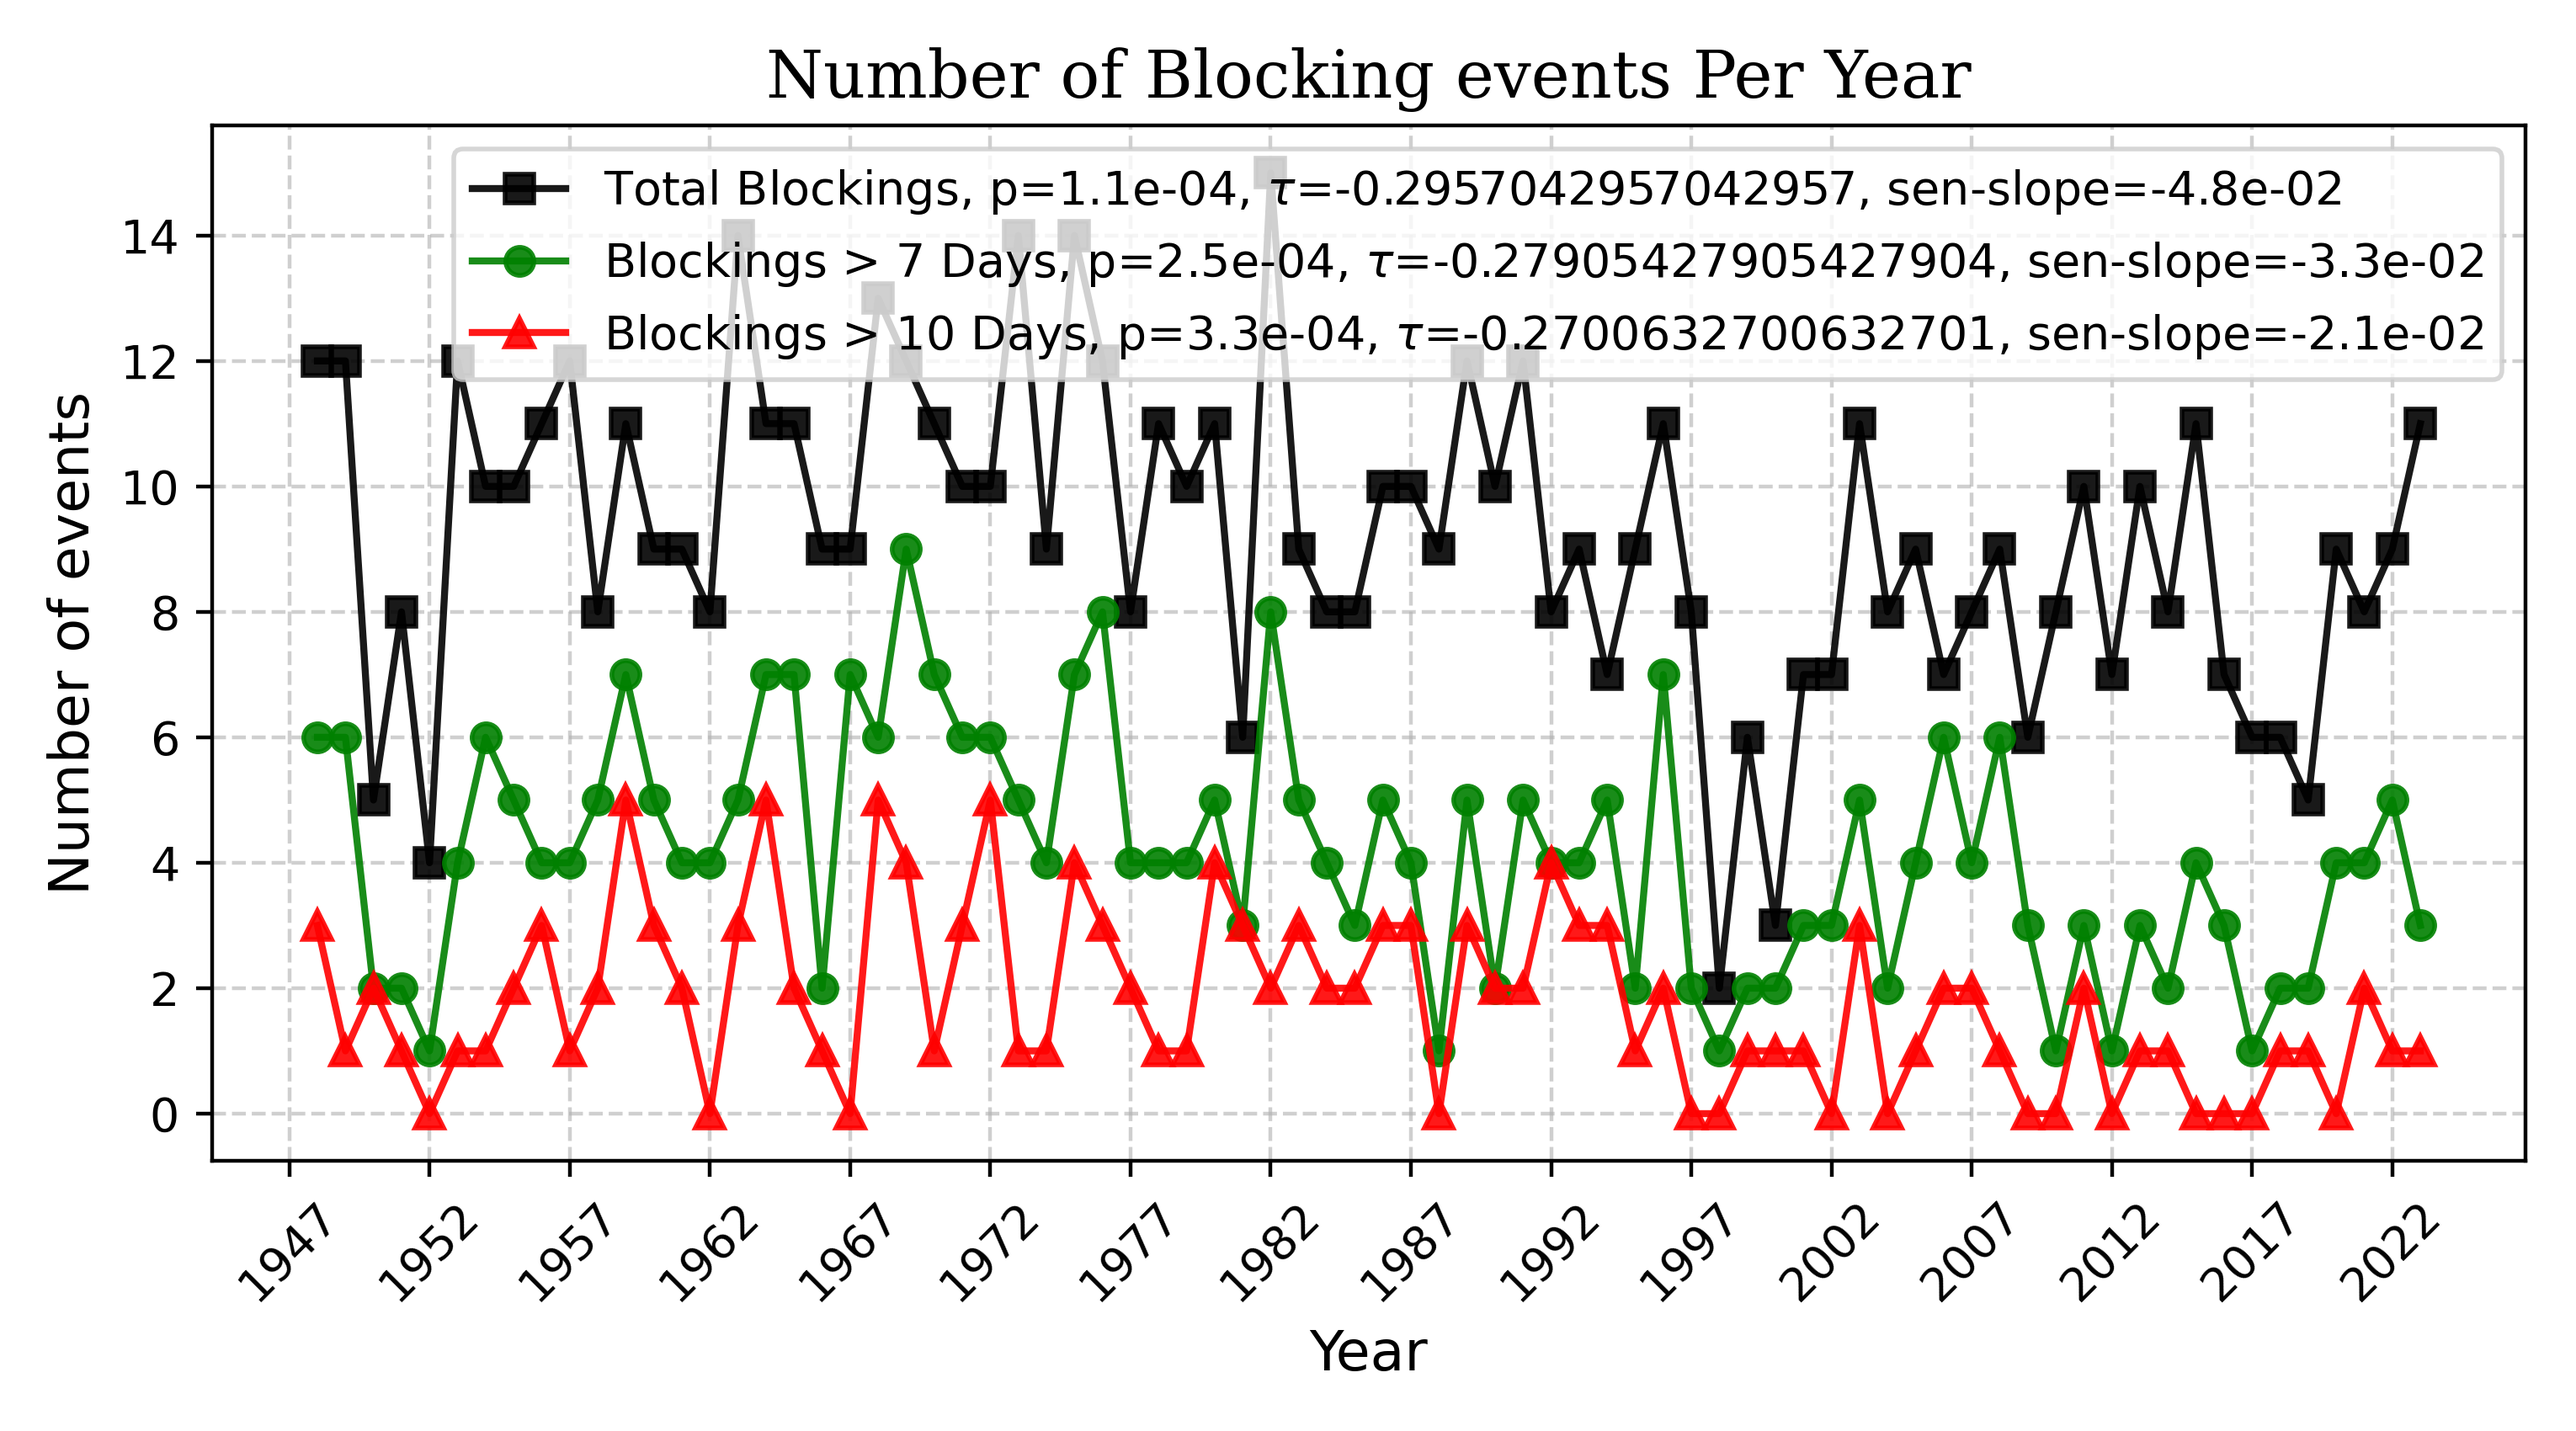
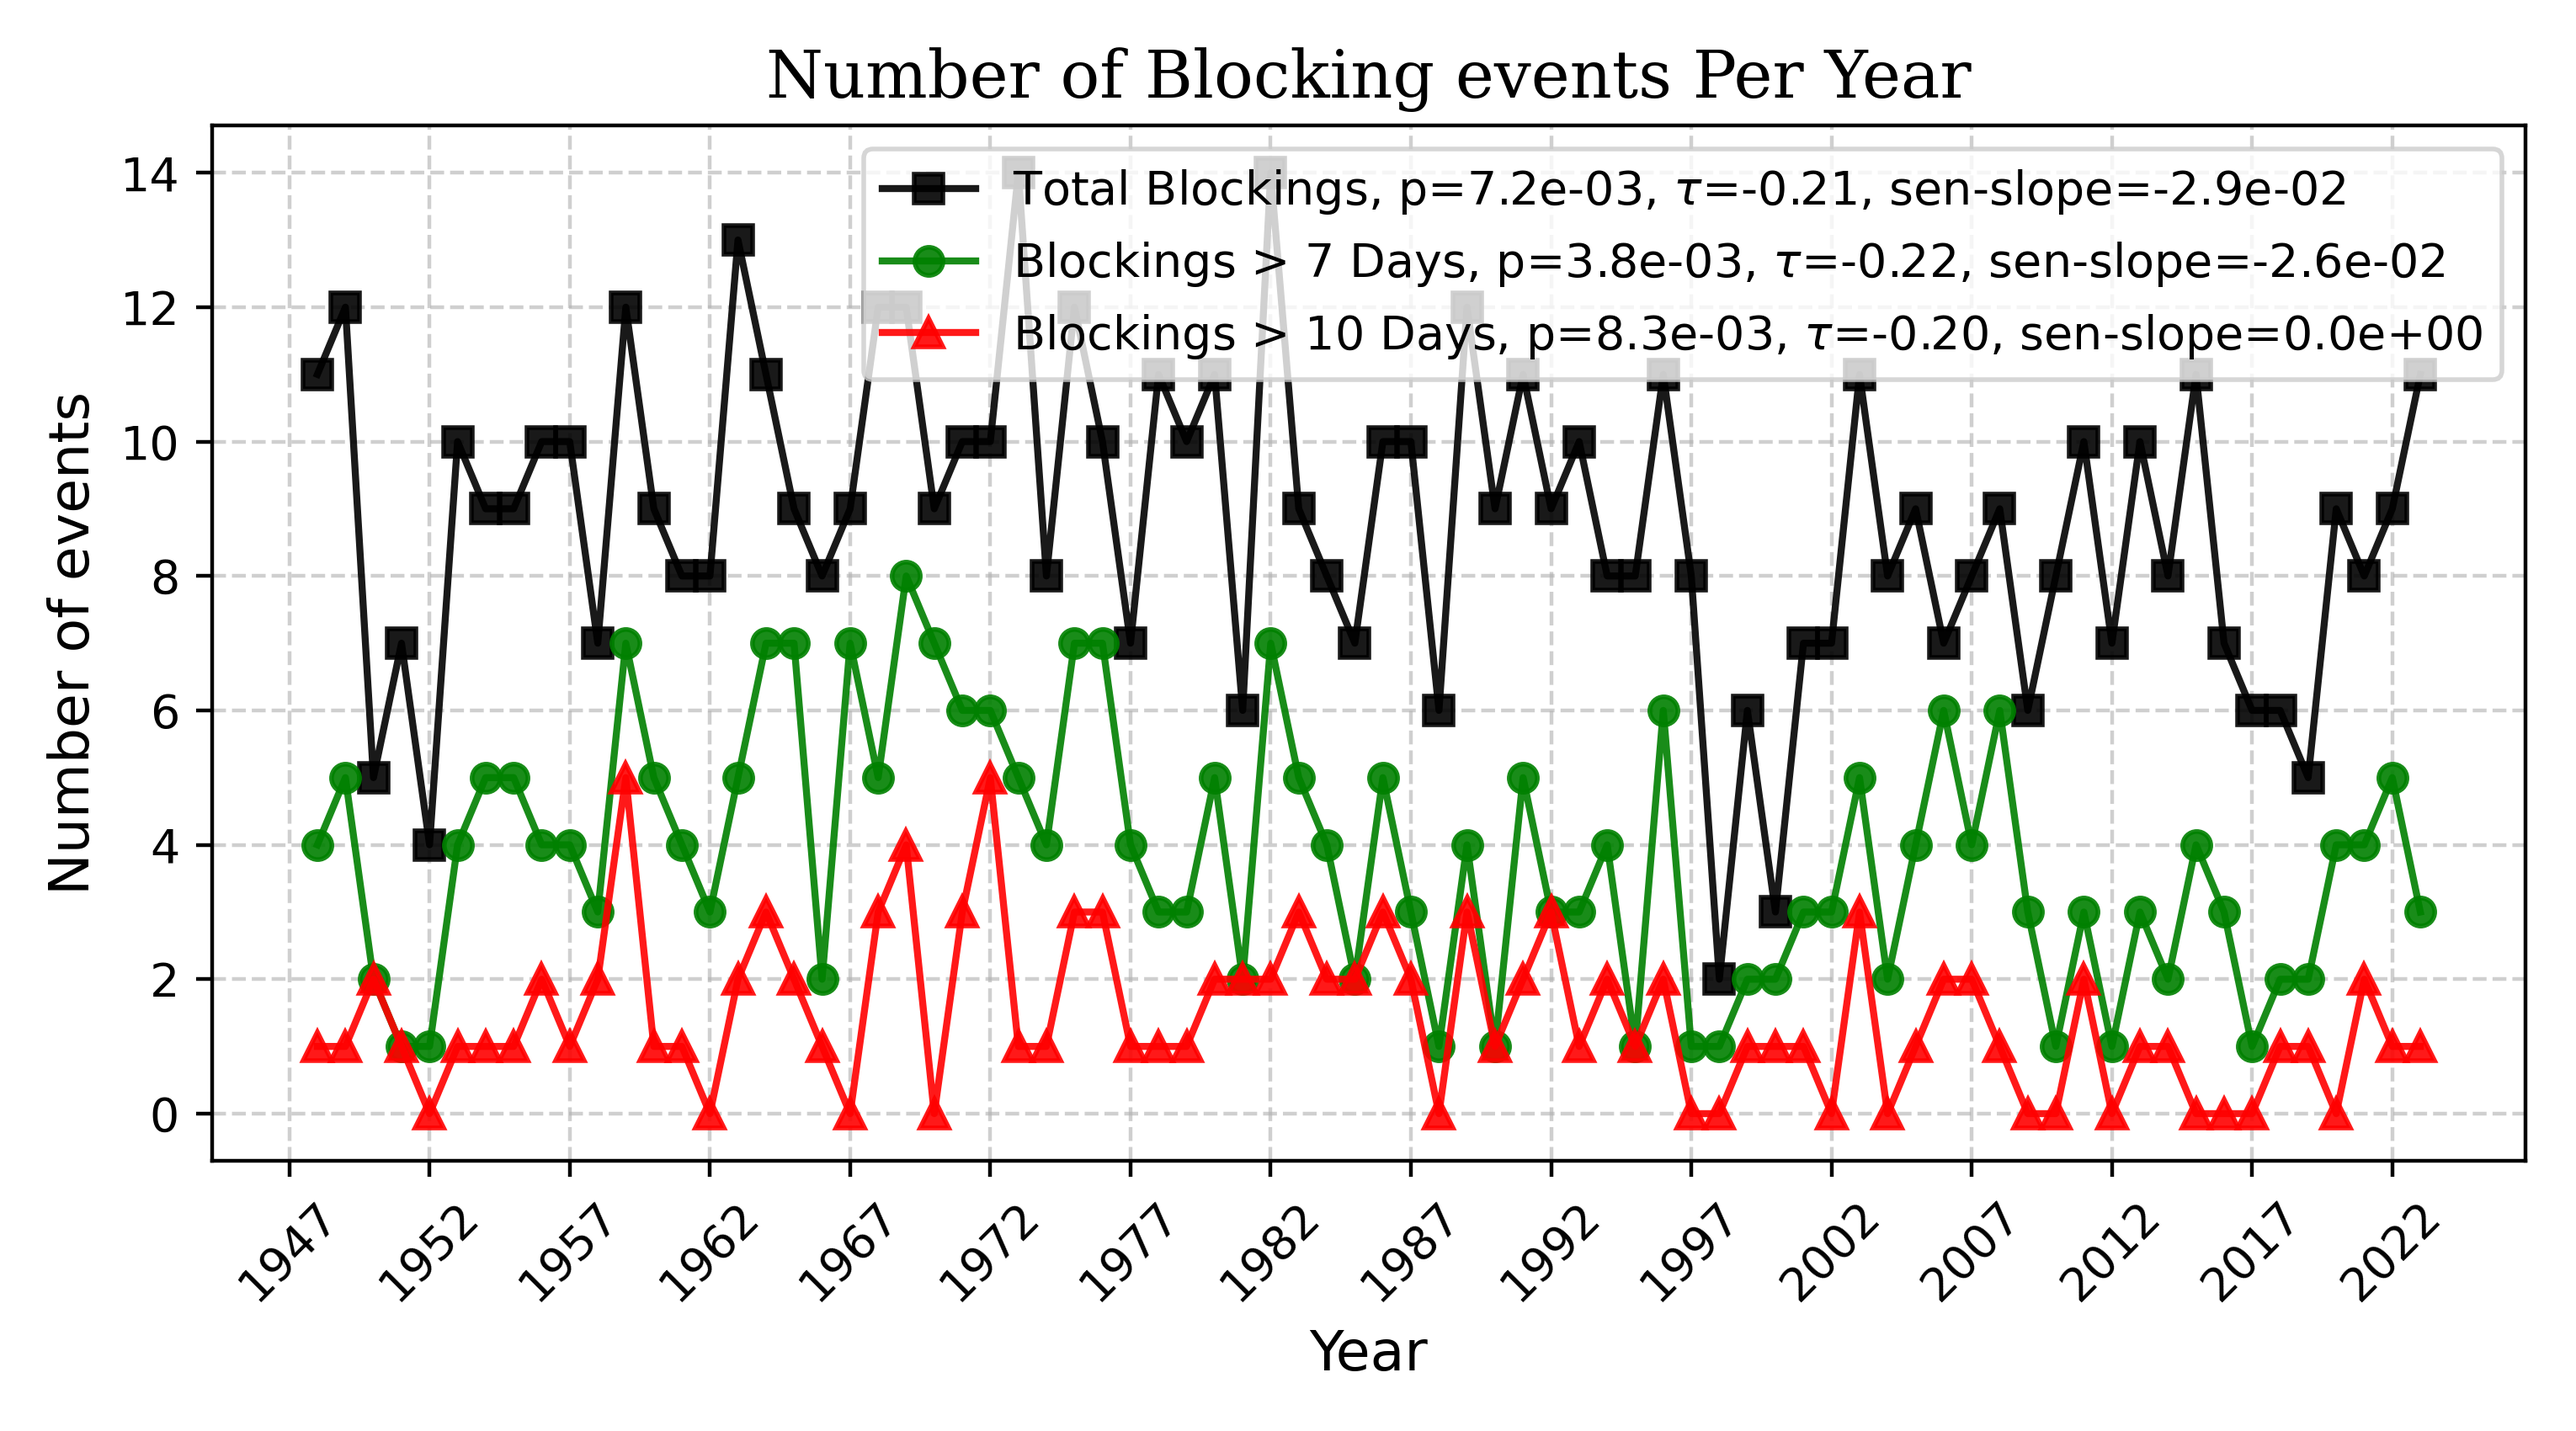
This push was done via a bash script

diff --git a/read_datafiles.py b/read_datafiles.py
@@ -2640,7 +2640,7 @@ def plot_blockingsdays_by_year(block_list, typ, save=False):
             
             # Check if p-value is below 0.05 and format the string accordingly
             if p_value < 0.05:
-                infostrings[season] = f"p={p_value:.1e}, $\\tau$={tau}, sen-slope={slope:.1e}"
+                infostrings[season] = f"p={p_value:.1e}, $\\tau$={tau:.2f}, sen-slope={slope:.1e}"
             else:
                 infostrings[season] = f"p={p_value:.3f} $\\nless$ 0.05"
                                                                                       
@@ -2831,10 +2831,10 @@ def plot_blockings_by_year(block_list, lim1, lim2, Histogram=False, save=False):
         fig, ax = plt.subplots(figsize=(9*scalar, 5*scalar))
 
         # Line plots for total blockings and long blockings
-        ax.plot(t, total_blockings, label=f'Total Blockings, p={ptot:.1e}, $\\tau$={tautot}, sen-slope={slopetot:.1e}', color='black', linestyle='-', marker='s', alpha=0.9)
+        ax.plot(t, total_blockings, label=f'Total Blockings, p={ptot:.1e}, $\\tau$={tautot:.2f}, sen-slope={slopetot:.1e}', color='black', linestyle='-', marker='s', alpha=0.9)
         
-        ax.plot(t, lim1_blockings_per_year, label=f'Blockings > {lim1} Days, p={p1:.1e}, $\\tau$={tau1}, sen-slope={slope1:.1e}', color='green', linestyle='-', marker='o', alpha=0.9)
-        ax.plot(t, lim2_blockings_per_year, label=f'Blockings > {lim2} Days, p={p2:.1e}, $\\tau$={tau2}, sen-slope={slope2:.1e}', color='red', linestyle='-', marker='^', alpha=0.9)
+        ax.plot(t, lim1_blockings_per_year, label=f'Blockings > {lim1} Days, p={p1:.1e}, $\\tau$={tau1:.2f}, sen-slope={slope1:.1e}', color='green', linestyle='-', marker='o', alpha=0.9)
+        ax.plot(t, lim2_blockings_per_year, label=f'Blockings > {lim2} Days, p={p2:.1e}, $\\tau$={tau2:.2f}, sen-slope={slope2:.1e}', color='red', linestyle='-', marker='^', alpha=0.9)
         # Labels and title
         ax.set_xlabel('Year', fontsize=12)
         ax.set_ylabel('Number of events', fontsize=12)

diff --git a/making_all_plots_for_report.py b/making_all_plots_for_report.py
@@ -26,6 +26,7 @@ imsave = "png"         # Can be pdf, png, False
 press_lim   = 1014   # This is the pressure limit for classifying high pressure
 dur_lim     = 5      # Minimum number of days for blocking
 rain_lim    = 0.5    # Horly max rain rate
+daily_limit = 1      # Daily max rain rate (Ängelholm)
 mindatasets = 8      # Minimum allowed of dattsets allowed when taking std and mean
 daystoplot  = 14     # How long periods should the plots display
 pm_coverege = 0.85   # How much PM2.5 coverge must the periods have
@@ -45,7 +46,7 @@ blocking_list = read.find_blocking(csv.histogram_main['pressure'],
                                    csv.histogram_main['rain'], 
                                    pressure_limit=press_lim, 
                                    duration_limit=dur_lim, 
-                                   rain_limit=2/24) # This is avrege four 24 hours 
+                                   rain_limit=daily_limit/24) # This is avrege four 24 hours 
 
 
 read.plot_blockings_by_year(blocking_list, lim1=7, lim2=10, save=imsave)
